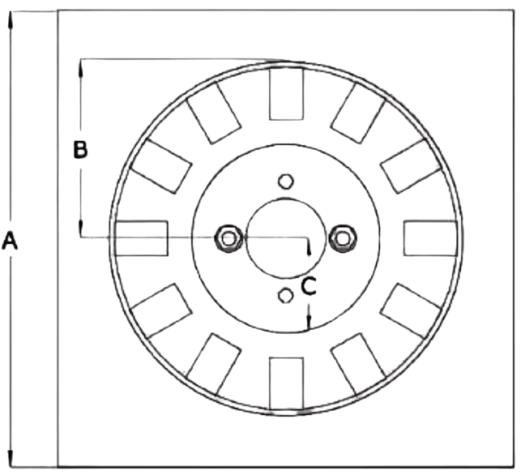
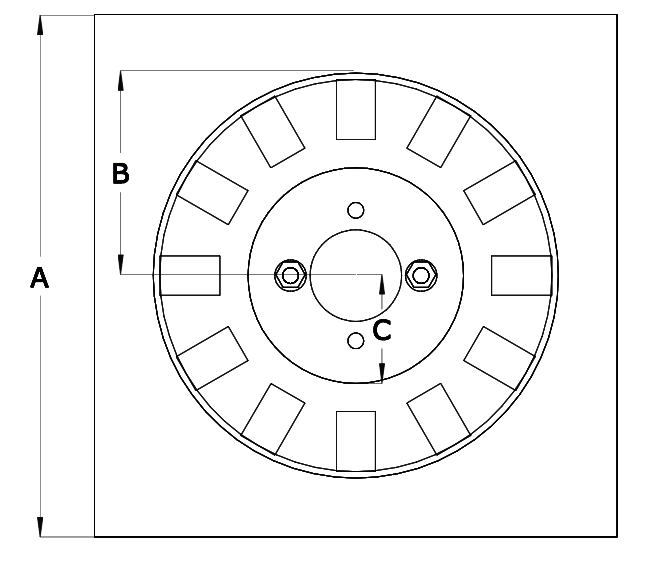
Use better quality images & add t and h shape stator mould dimension images

diff --git a/openafpm_cad_core/get_dimension_tables.py b/openafpm_cad_core/get_dimension_tables.py
@@ -482,13 +482,23 @@ def create_stator_mold_dimensions_table(spreadsheet_document: Document, img_path
     rotor_disk_radius = spreadsheet_document.Spreadsheet.RotorDiskRadius
     wind_turbine_shape = map_rotor_disk_radius_to_wind_turbine_shape(rotor_disk_radius)
     number_of_locating_bolts = 3
+    if wind_turbine_shape == WindTurbineShape.T:
+        img_src = img_path_prefix + 't-shape-stator-mould-dimensions.png'
+    elif wind_turbine_shape == WindTurbineShape.H:
+        img_src = img_path_prefix + 'h-shape-stator-mould-dimensions.png'
+    else:
+        img_src = img_path_prefix + 'h-shape-stator-mould-dimensions.svg'
+    img_src_and_alt = (img_src, 'Stator mould dimensions')
+        
     return create_table(
         'Stator Mould Dimensions',
         [
             ('Mould side A', round_and_format_length(
                 spreadsheet_document.Alternator.StatorMoldSideLength)),
             ('Outer radius B', round_and_format_length(
-                spreadsheet_document.Alternator.StatorHolesCircumradius)),
+                spreadsheet_document.Alternator.StatorHolesCircumradius
+                if wind_turbine_shape != wind_turbine_shape.STAR else
+                spreadsheet_document.Alternator.HexagonalStatorOuterCircumradius)),
             ('Inner radius C', round_and_format_length(
                 spreadsheet_document.Alternator.StatorInnerHoleRadius)),
             (
